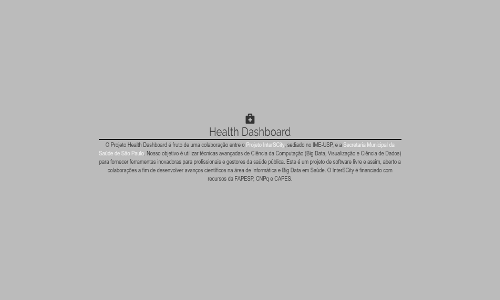
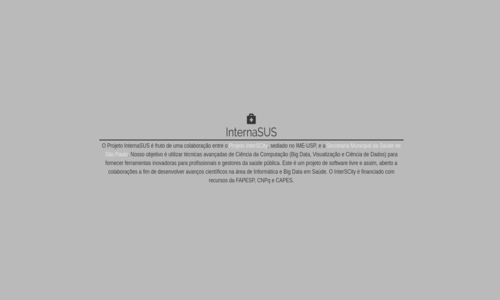
changed name

Changed region(s): [[0.18, 0.36, 0.81, 0.63]]

diff --git a/CONTRIBUTING.md b/CONTRIBUTING.md
@@ -5,7 +5,7 @@ este projeto.
 
 ## Como montar o ambiente de execução do projeto
 
-O projeto GeoMonitor da Saúde, requer o framework Rails e um banco de dados
+O projeto InternaSUS, requer o framework Rails e um banco de dados
 PostgreSQL para ser executado. As versões mínimas necessárias destes
 aplicativos são:
 
@@ -85,14 +85,14 @@ principal do projeto os comandos abaixo:
 ```
 $ docker-compose build
 ```
-O comando acima irá criar uma imagem para o GeoMonitor da Saúde empacotando todo
+O comando acima irá criar uma imagem para o InternaSUS empacotando todo
 o código e dependências.
 
 ```
 $ docker-compose up
 ```
 Este comando irá criar um container de PostgreSQL e um container com o
-GeoMonitor da Saúde, executando os como se fosse um deploy da aplicação em um
+InternaSUS, executando os como se fosse um deploy da aplicação em um
 ambiente de homologação ou produção. 
 
 ### Instalando o ambiente em uma máquina Linux

diff --git a/README.md b/README.md
@@ -1,4 +1,4 @@
-# GeoMonitor da Saúde
+# InternaSUS
 
 Uma aplicação para visualização espacial de dados de internações hospitalares da cidade de São Paulo.
 
@@ -14,7 +14,7 @@ Master:
 
 ## O GeoMonitor
 
-É possível acessar o GeoMonitor da Saúde através dos seguintes links:
+É possível acessar o InternaSUS através dos seguintes links:
 
 **Produção:** [http://interscity.org/apps/saude](http://interscity.org/apps/saude)
 
